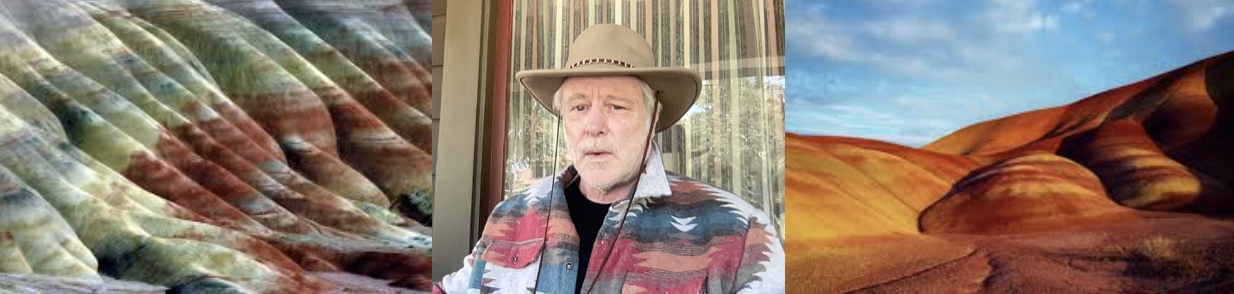
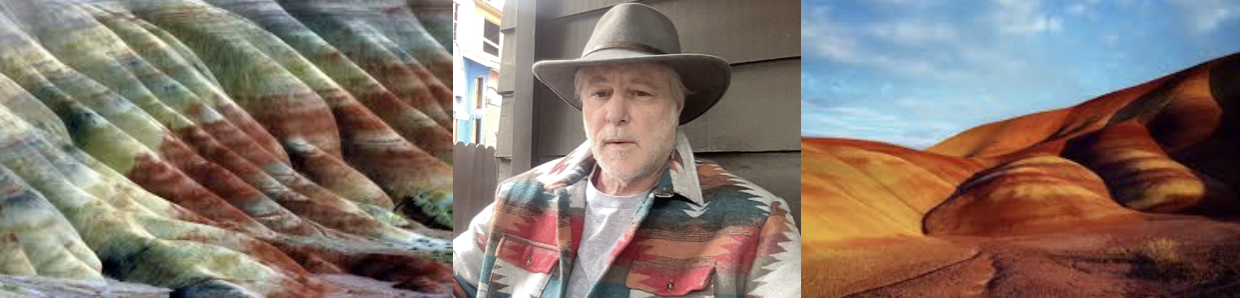
Add files via upload

diff --git a/about.html b/about.html
@@ -70,7 +70,7 @@ text-align: center;
 <p style="text-align:left;">
 </p>
 <p></p>
-<p><img src="June_27_2026.jpg" alt="ian" width="200"></p>
+<p><img src="June_30_2026.jpg" alt="ian" width="200"></p>
 
 
 